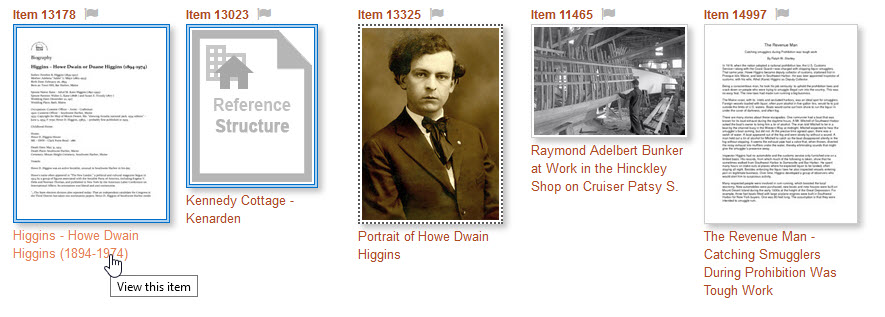
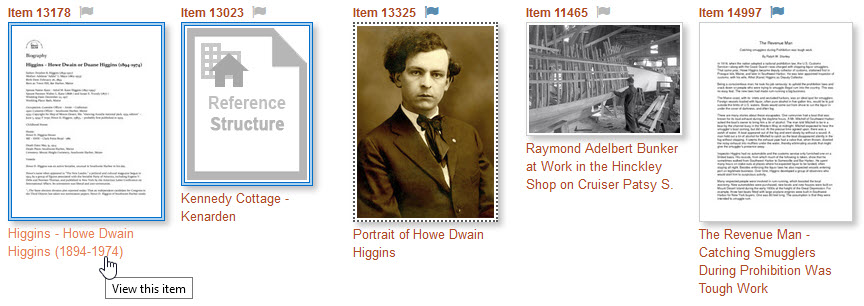
Content updates.

Changed region(s): [[0.4062, 0.0, 1.0, 0.9706], [0.0, 0.0, 0.375, 1.0]]

diff --git a/digital-archive/docs/user/recently-viewed.md b/digital-archive/docs/user/recently-viewed.md
@@ -1,24 +1,64 @@
-# Flagging Items for Later
+# Flagging Items to View Later
 
-You can mark items in search results that you want to view later so that you can quickly find them
+You can flag items in search results that you want to view later so that you can quickly find them
 without having to search for them again.
 
 !!! Note ""
-    This feature works ony when you are searching the site you are on.  
+    This flagging feature works ony when you are searching the site you are on.  
     It does not work when you are [searching all sites](/user/what-gets-searched/#terminology).
 
 The example below shows search results in [Grid View](user/viewing-search-results/#grid-view)
-for five items.    
+for five items. The user is about to click the title on the first item to learn more about it.
+However, before clicking the title, they clicked the flag icons on items 13325 and 14997 to mark
+them for viewing later. A blue flag indicates that an item is in the recently viewed items list
+(even if you have not actaully viewed its item page). You can unflag an item by clicking it again
+which makes it turn gray.
 
 ![Thumbnails showing recently-viewed flags](recently-viewed-1.jpg)
 
-You can see flagged items in the **_Recent Items_** list along with recently viewed items.
+### Recently viewed items page
 
-You can remove individual items from the list or clear the entire list at any time. You can also
-display the list as search results so that you can share them with someone else or
-[print them to a PDF file](../pdf-report).
+Continuing with the example above, after viewing item 13178, the user could click
+the `Recent Items` link, located below the search box, to go to the **_Recently Viewed Items_** page.
+The page shows the item that they they just viewed, followed by the two items that
+they flagged earlier.
 
-You can only flag items when viewing `This site`
+![Thumbnails showing recently-viewed flags](recently-viewed-2.jpg)
 
-The are stored in cookies
+On the **_Recently Viewed Items_** page, you can:
 
+-   Click a title to go to that item's page
+-   Click a thumbnail to view the item's image in the popup lightbox 
+-   Click the `Remove` link to remove am item from the list
+-   Click the `Clear all` link to remove all items from the list
+-   Click the `Show as search results` link to view all of the items as search results
+
+### Show recent items as search results
+
+You can use the flagging feature as way to create a set of results that you want to share with someone else.
+A common sequence for using the feature is to:
+
+-   Clear all the recently viewed items
+-   View and/or flag items that you want to share
+-   Click the `Remove` link on any items that you don't want to keep in the list
+-   View the list as search results
+-   Send the search results to a friend or colleage
+
+When the user clicks the `Show as search results` link in the previous example above,
+the three items appear as search results as shown below.
+You can share results with someone else by sending them the search results page URL. 
+[Learn about sharing search results](/user/sharing).
+
+![Thumbnails showing recently-viewed flags](recently-viewed-3.jpg)
+
+!!! Note "Notes"
+    The list of recently viewed items is stored in [browser cookies](https://en.wikipedia.org/wiki/HTTP_cookie).
+    If you clear your browser's cookies, or switch to a different browser, or don't
+    look at the **_Recently Viewed Items_** page for several days, the list will be empty.
+
+    The `Recent Items` link does not appear under the search box when there are no recent items.
+
+    The recently viewed items list only tracks items that you have viewed of flagged when searching
+    `This site`. It does not track items when you are viewing `All sites`.
+
+---

diff --git a/digital-archive/docs/user/viewing-items.md b/digital-archive/docs/user/viewing-items.md
@@ -10,12 +10,12 @@ You can view search result items in these ways:
 
 The appearance of an item's thumbnail tells you something about the item:
 
--   A double border (items 13178 and 13023) indicates that it's
+-   A blue double border (items 13178 and 13023) indicates that it's
     a [Reference item](/user/relationships/#reference-items).
 -   A dotted border (item #13325) indicates that the item has two or more attachments.
 -   A placeholder thumbnail indicates that the item has no attachments. The placeholder
     for item 13023 indicates that it's Reference item for a structure.
--   A blue flag (items 3304 and 13325) indicates that the item has either been marked to view
+-   A blue flag (items 13325 and 14997) indicates that the item has either been marked to view
     later or that it is already on the recently viewed items list. A gray flag indicates that
     the item is not on the recently viewed items list. [Learn about flagging items](/user/recently-viewed).
 
